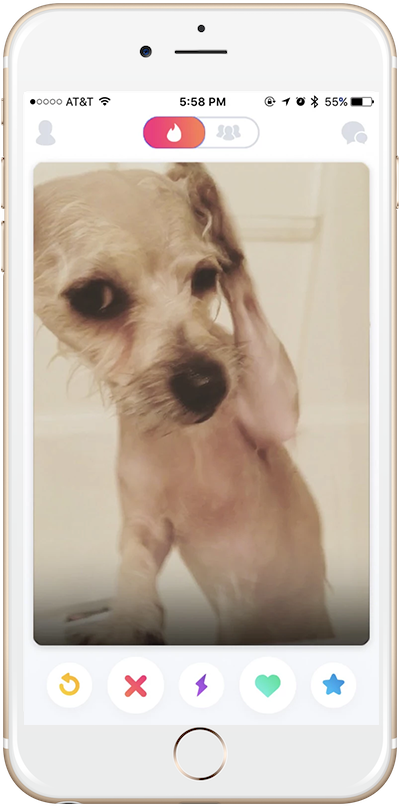
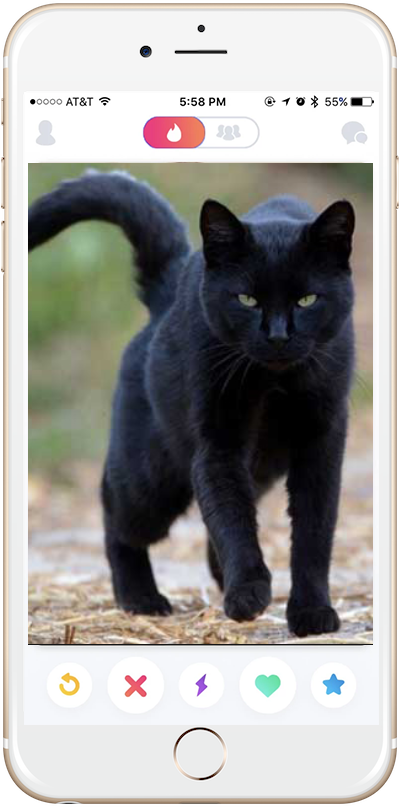
Catified it!

diff --git a/index.html b/index.html
@@ -3,7 +3,7 @@
 
 <head>
   <meta charset="utf-8">
-  <title>TinDog</title>
+  <title>SmittenKitten</title>
 
   <!-- Google Fonts -->
   <link href="https://fonts.googleapis.com/css?family=Montserrat:100,400,900|Ubuntu" rel="stylesheet">
@@ -29,7 +29,7 @@
     <div class="container-fluid">
       <!-- Nav Bar -->
       <nav class="navbar navbar-expand-lg navbar-dark">
-        <a class="navbar-brand" href="">tindog</a>
+        <a class="navbar-brand" href="">smittenkitten*</a>
         <button class="navbar-toggler" type="button" data-toggle="collapse" data-target="#navbarTogglerDemo02"
           aria-controls="navbarTogglerDemo02" aria-expanded="false" aria-label="Togglenavigation">
           <span class="navbar-toggler-icon"></span>
@@ -61,7 +61,7 @@
   
       <div class="row">
         <div class="col-lg-6">
-          <h1>Meet new and interesting dogs nearby.</h1>
+          <h1>Meet new and interesting cats nearby.</h1>
           <button type="button" class="btn btn-dark btn-lg download-button"><i class="fab fa-apple"></i> Download</button>
           <button type="button" class="btn btn-outline-light btn-lg download-button"><i class="fab fa-google-play"></i> Download</button>
         </div>
@@ -79,19 +79,19 @@
     <div class="container-fluid">
       <div class="row">
         <div class="col-lg-4 usp">
-          <i class="fas fa-check-circle usp-icon"></i>
+          <i class="fas fa-paw usp-icon"></i>
           <h3 class="usp-text">Easy to use.</h3>
-          <p style="color:#8f8f8f">So easy to use, even your dog could do it.</p>
+          <p style="color:#8f8f8f">So easy to use, even your <i>dog</i> could do it.</p>
         </div>
         <div class="col-lg-4 usp">
-          <i class="fas fa-bullseye usp-icon"></i>
+          <i class="fas fa-cat usp-icon"></i>
           <h3 class="usp-text">Elite Clientele</h3>
-          <p style="color:#8f8f8f">We have all the dogs, the greatest dogs.</p>
+          <p style="color:#8f8f8f">We have all the cats, the greatest cats.</p>
         </div>
         <div class="col-lg-4 usp">
-          <i class="fas fa-heart usp-icon"></i>
+          <i class="fas fa-paw usp-icon"></i>
           <h3 class="usp-text">Guaranteed to work.</h3>
-          <p style="color:#8f8f8f">Find the love of your dog's life or your money back.</p>
+          <p style="color:#8f8f8f">Find the love of your cat's life or your money back.</p>
         </div>
       </div>
     </div>
@@ -102,13 +102,13 @@
 
   <section id="testimonials">
 
-    <h2>I no longer have to sniff other dogs for love. I've found the hottest Corgi on TinDog. Woof.</h2>
-    <img src="images/dog-img.jpg" alt="dog-profile">
-    <em>Pebbles, New York</em>
+    <h2>No more nightly yowling in the backyard for me. I've found the hottest Calico on SmittenKitten. Purrr.</h2>
+    <img src="images/mackerel-tabby-cat.jpg" alt="cat-profile">
+    <em>Pommetje, The Hague, NL</em>
 
-    <!-- <h2 class="testimonial-text">My dog used to be so lonely, but with TinDog's help, they've found the love of their life. I think.</h2>
-    <img class="testimonial-image" src="images/lady-img.jpg" alt="lady-profile">
-    <em>Beverly, Illinois</em> -->
+    <h2 class="testimonial-text">My cats used to be so lonely, but with SmittenKitten's help, they've found the loves of their life (no, the irony is not lost on me).</h2>
+    <img class="testimonial-image" src="images/crazy-cat-lady.jpg" alt="lady-profile">
+    <em>Beverly, Illinois</em>
 
   </section>
 
@@ -128,11 +128,11 @@
 
   <section id="pricing">
 
-    <h2>A Plan for Every Dog's Needs</h2>
-    <p>Simple and affordable price plans for your and your dog.</p>
+    <h2>A Plan for Every Cat's Needs</h2>
+    <p>Simple and affordable price plans for your and your kittie.</p>
 
 
-    <h3>Chihuahua</h3>
+    <h3>Singapura</h3>
     <h2>Free</h2>
     <p>5 Matches Per Day</p>
     <p>10 Messages Per Day</p>
@@ -140,7 +140,7 @@
     <button type="button">Sign Up</button>
 
 
-    <h3>Labrador</h3>
+    <h3>Bombay Breed</h3>
     <h2>$49 / mo</h2>
     <p>Unlimited Matches</p>
     <p>Unlimited Messages</p>
@@ -148,9 +148,9 @@
     <button type="button">Sign Up</button>
 
 
-    <h3>Mastiff</h3>
+    <h3>Maine Coon</h3>
     <h2>$99 / mo</h2>
-    <p>Pirority Listing</p>
+    <p>Priority Listing</p>
     <p>Unlimited Matches</p>
     <p>Unlimited Messages</p>
     <p>Unlimited App Usage</p>
@@ -163,7 +163,7 @@
 
   <section id="cta">
 
-    <h3>Find the True Love of Your Dog's Life Today.</h3>
+    <h3>Find the True Love of Your Cat's Life Today.</h3>
     <button type="button">Download</button>
     <button type="button">Download</button>
 
@@ -174,7 +174,8 @@
 
   <footer id="footer">
 
-    <p>© Copyright 2018 TinDog</p>
+    <p>© Copyright 2018 smittenkitten</p>
+    <p>*) The name SmittenKitten is stolen from its owner, Laura Hamm. We ask for forgiveness, not for permission. Meow.</p>
 
   </footer>
 
